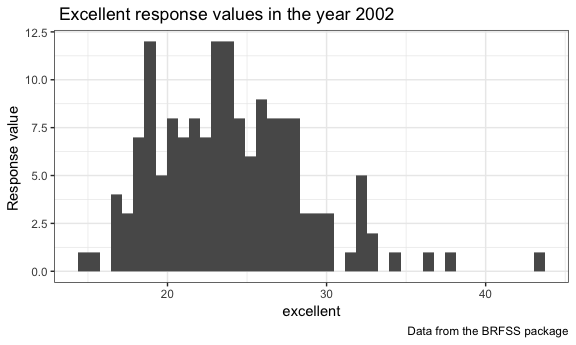
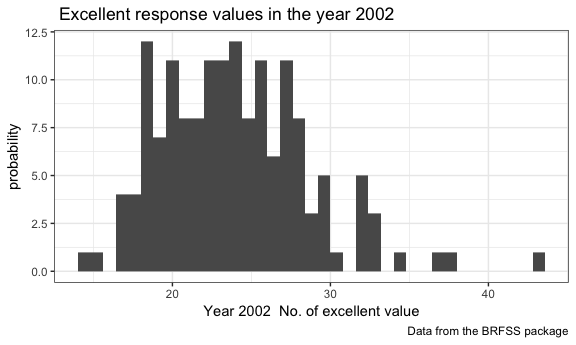
Change the caption and add comment on data in p3.

diff --git a/P8105_hw2_sj2921.md b/P8105_hw2_sj2921.md
@@ -283,7 +283,7 @@ str(Precp_df)
   - The mean of glass bottles in 2017 is 1998;
   - The sum of cigrette butts for the last five years are 1.0289610^{7}.
 
-## \#\# Problem 3
+## Problem 3
 
 ``` r
 library(p8105.datasets)
@@ -364,9 +364,10 @@ library(viridis)
 Percentage  %>%
   filter(year == "2002") %>% 
   ggplot(aes(x = excellent )) + 
-  geom_histogram(binwidth = 0.7 ) + 
+  geom_histogram(binwidth = 0.8 ) + 
   labs(title = " Excellent response values in the year 2002",
-       y = "Response value ",
+       x = "Year 2002  No. of excellent value",
+       y = "probability",
        caption = "Data from the BRFSS package"
        ) +
   viridis::scale_fill_viridis(name = "Location", 
